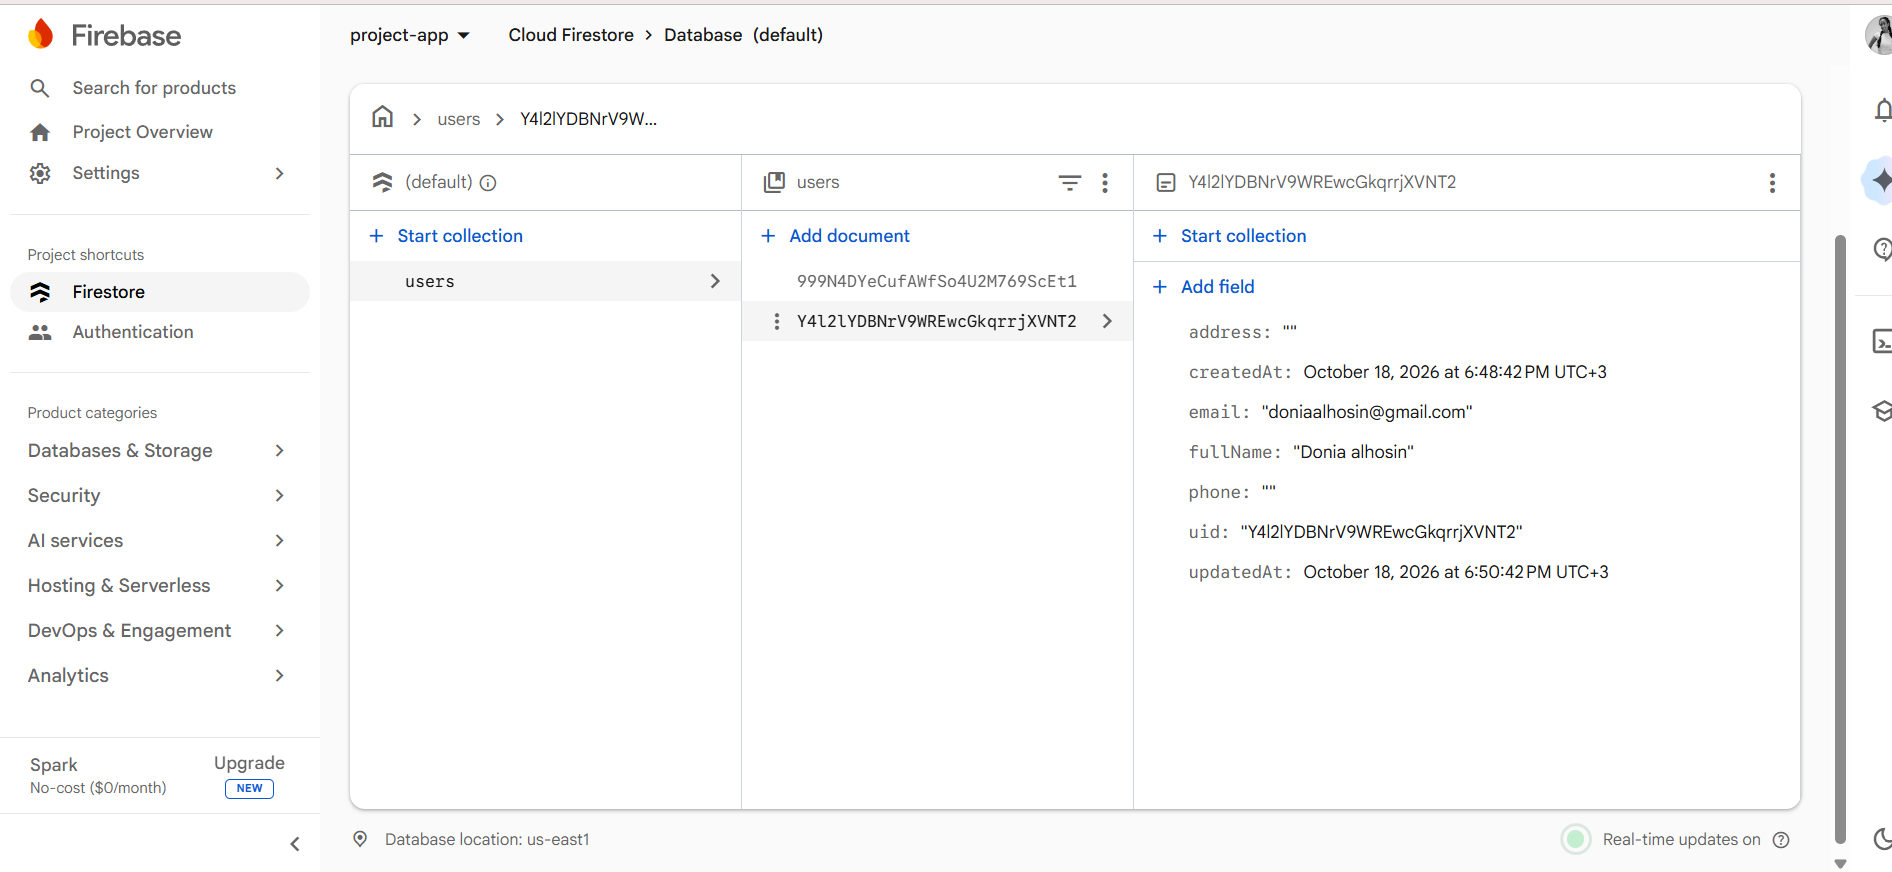
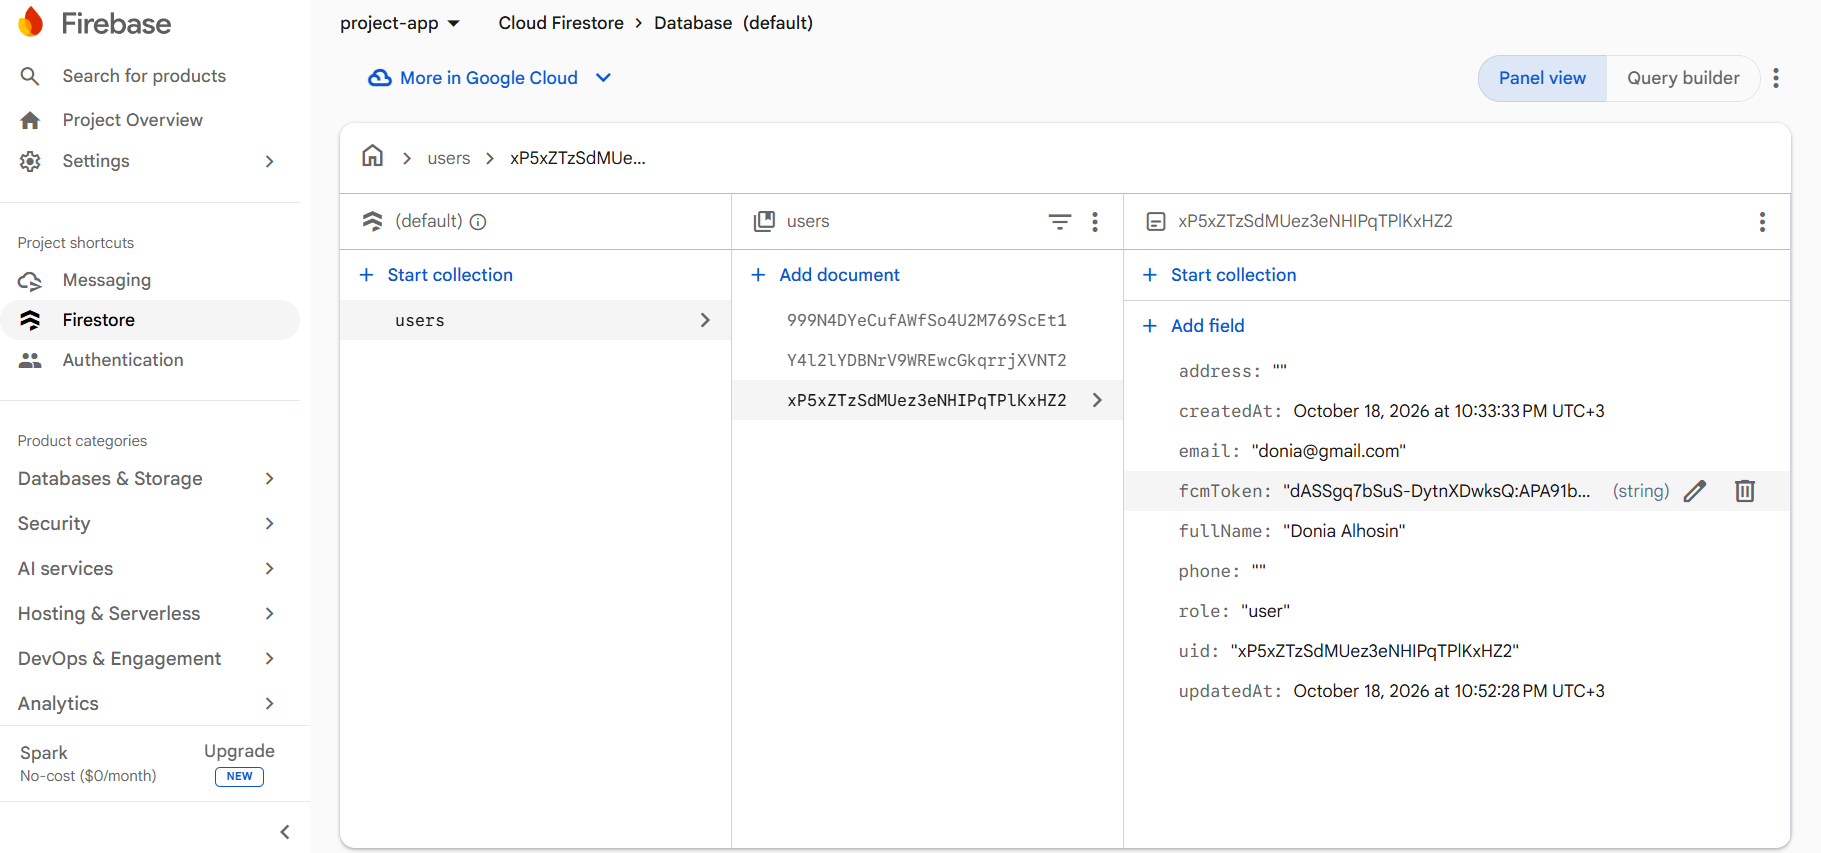
Add bottom tab navigation and Session 24 FCM screenshots.
Menu, Cart, and Profile use a Material bottom bar; README includes fcmToken and order-placed notification shots.

diff --git a/lib/View/food_menu_screen.dart b/lib/View/food_menu_screen.dart
@@ -16,7 +16,17 @@ import 'widgets/food_card.dart';
 
 /// Food catalog screen (MVC View).
 class FoodMenuScreen extends StatefulWidget {
-  const FoodMenuScreen({super.key});
+  const FoodMenuScreen({
+    super.key,
+    this.onOpenCart,
+    this.onOpenProfile,
+  });
+
+  /// When set (e.g. from [MainShell]), opens the Cart tab instead of pushing.
+  final VoidCallback? onOpenCart;
+
+  /// When set (e.g. from [MainShell]), opens the Profile tab instead of pushing.
+  final VoidCallback? onOpenProfile;
 
   @override
   State<FoodMenuScreen> createState() => _FoodMenuScreenState();
@@ -125,10 +135,13 @@ class _FoodMenuScreenState extends State<FoodMenuScreen> {
           if (value == 'logout') {
             await auth.logout();
           } else if (value == 'profile') {
-            if (!context.mounted) return;
-            Navigator.of(context).push(
-              MaterialPageRoute<void>(builder: (_) => const ProfileScreen()),
-            );
+            if (widget.onOpenProfile != null) {
+              widget.onOpenProfile!();
+            } else if (context.mounted) {
+              Navigator.of(context).push(
+                MaterialPageRoute<void>(builder: (_) => const ProfileScreen()),
+              );
+            }
           } else if (value == 'users' && isAdmin) {
             if (!context.mounted) return;
             Navigator.of(context).push(
@@ -234,7 +247,13 @@ class _FoodMenuScreenState extends State<FoodMenuScreen> {
         ScaffoldMessenger.of(context).showSnackBar(
           SnackBar(
             content: Text('${food.name} added to cart'),
-            duration: const Duration(seconds: 1),
+            duration: const Duration(seconds: 2),
+            action: widget.onOpenCart == null
+                ? null
+                : SnackBarAction(
+                    label: 'View cart',
+                    onPressed: widget.onOpenCart!,
+                  ),
           ),
         );
       }
@@ -282,6 +301,10 @@ class _FoodMenuScreenState extends State<FoodMenuScreen> {
                 ),
                 icon: const Icon(Icons.shopping_cart_outlined),
                 onPressed: () {
+                  if (widget.onOpenCart != null) {
+                    widget.onOpenCart!();
+                    return;
+                  }
                   Navigator.of(context).push(
                     MaterialPageRoute<void>(
                       builder: (_) => const CartScreen(),

diff --git a/lib/View/main_shell.dart b/lib/View/main_shell.dart
@@ -1,0 +1,80 @@
+import 'package:flutter/material.dart';
+import 'package:provider/provider.dart';
+
+import '../Provider/order_provider.dart';
+import '../theme/app_theme.dart';
+import 'cart_screen.dart';
+import 'food_menu_screen.dart';
+import 'profile_screen.dart';
+
+/// Root shell with Material 3 bottom navigation for mobile.
+class MainShell extends StatefulWidget {
+  const MainShell({super.key});
+
+  @override
+  State<MainShell> createState() => _MainShellState();
+}
+
+class _MainShellState extends State<MainShell> {
+  int _index = 0;
+
+  void _goTo(int index) {
+    if (_index == index) return;
+    setState(() => _index = index);
+  }
+
+  @override
+  Widget build(BuildContext context) {
+    final cartCount = context.watch<OrderProvider>().totalQuantity;
+    final theme = Theme.of(context);
+
+    return Scaffold(
+      body: IndexedStack(
+        index: _index,
+        children: [
+          FoodMenuScreen(
+            onOpenCart: () => _goTo(1),
+            onOpenProfile: () => _goTo(2),
+          ),
+          const CartScreen(),
+          const ProfileScreen(),
+        ],
+      ),
+      bottomNavigationBar: NavigationBar(
+        selectedIndex: _index,
+        onDestinationSelected: _goTo,
+        backgroundColor: Colors.white,
+        indicatorColor: AppTheme.peach,
+        labelBehavior: NavigationDestinationLabelBehavior.alwaysShow,
+        destinations: [
+          const NavigationDestination(
+            icon: Icon(Icons.restaurant_menu_outlined),
+            selectedIcon: Icon(Icons.restaurant_menu),
+            label: 'Menu',
+          ),
+          NavigationDestination(
+            icon: Badge(
+              isLabelVisible: cartCount > 0,
+              label: Text('$cartCount'),
+              child: const Icon(Icons.shopping_cart_outlined),
+            ),
+            selectedIcon: Badge(
+              isLabelVisible: cartCount > 0,
+              label: Text('$cartCount'),
+              child: Icon(
+                Icons.shopping_cart,
+                color: theme.colorScheme.primary,
+              ),
+            ),
+            label: 'Cart',
+          ),
+          const NavigationDestination(
+            icon: Icon(Icons.person_outline),
+            selectedIcon: Icon(Icons.person),
+            label: 'Profile',
+          ),
+        ],
+      ),
+    );
+  }
+}

diff --git a/lib/View/profile_screen.dart b/lib/View/profile_screen.dart
@@ -1,10 +1,12 @@
 import 'package:flutter/material.dart';
 import 'package:provider/provider.dart';
 
+import '../Provider/auth_provider.dart';
 import '../Provider/user_provider.dart';
 import '../extensions/string_validators.dart';
 import '../extensions/text_form_field_extensions.dart';
 import '../theme/app_theme.dart';
+import 'users_list_screen.dart';
 
 /// View / edit the logged-in user's Firestore profile.
 class ProfileScreen extends StatefulWidget {
@@ -408,6 +410,30 @@ class _ProfileScreenState extends State<ProfileScreen> {
                               ),
                             ],
                           ),
+                        ),
+                        const SizedBox(height: 16),
+                        if (users.isAdmin) ...[
+                          OutlinedButton.icon(
+                            onPressed: () {
+                              Navigator.of(context).push(
+                                MaterialPageRoute<void>(
+                                  builder: (_) => const UsersListScreen(),
+                                ),
+                              );
+                            },
+                            icon: const Icon(
+                              Icons.admin_panel_settings_outlined,
+                            ),
+                            label: const Text('Manage users'),
+                          ),
+                          const SizedBox(height: 10),
+                        ],
+                        OutlinedButton.icon(
+                          onPressed: () async {
+                            await context.read<AppAuthProvider>().logout();
+                          },
+                          icon: const Icon(Icons.logout),
+                          label: const Text('Sign out'),
                         ),
                       ],
                     ),

diff --git a/lib/theme/app_theme.dart b/lib/theme/app_theme.dart
@@ -91,6 +91,27 @@ class AppTheme {
           borderSide: const BorderSide(color: seed, width: 2),
         ),
       ),
+      navigationBarTheme: NavigationBarThemeData(
+        backgroundColor: Colors.white,
+        indicatorColor: peach,
+        elevation: 3,
+        height: 68,
+        labelTextStyle: WidgetStateProperty.resolveWith((states) {
+          final selected = states.contains(WidgetState.selected);
+          return TextStyle(
+            fontSize: 12,
+            fontWeight: selected ? FontWeight.w700 : FontWeight.w500,
+            color: selected ? seed : ink.withValues(alpha: 0.7),
+          );
+        }),
+        iconTheme: WidgetStateProperty.resolveWith((states) {
+          final selected = states.contains(WidgetState.selected);
+          return IconThemeData(
+            color: selected ? seed : ink.withValues(alpha: 0.65),
+            size: 24,
+          );
+        }),
+      ),
       snackBarTheme: SnackBarThemeData(
         behavior: SnackBarBehavior.floating,
         shape: RoundedRectangleBorder(borderRadius: BorderRadius.circular(12)),

diff --git a/lib/View/auth_gate.dart b/lib/View/auth_gate.dart
@@ -4,7 +4,7 @@ import 'package:provider/provider.dart';
 import '../Provider/auth_provider.dart';
 import '../Provider/user_provider.dart';
 import 'auth/login_screen.dart';
-import 'food_menu_screen.dart';
+import 'main_shell.dart';
 
 /// Shows [LoginScreen] until Firebase Auth reports a signed-in user.
 /// Also syncs the Firestore profile when auth state changes.
@@ -45,7 +45,7 @@ class _AuthGateState extends State<AuthGate> {
     final auth = context.watch<AppAuthProvider>();
 
     if (auth.isLoggedIn) {
-      return const FoodMenuScreen();
+      return const MainShell();
     }
     return const LoginScreen();
   }

diff --git a/README.md b/README.md
@@ -69,6 +69,7 @@ Browse a sample food menu, search items, add them to a cart (with editions and s
 - Firestore user profile (self-service edit + delete account)
 - Admin role with full users management
 - Cloud push notifications (FCM) with foreground display
+- Mobile bottom tabs: Menu · Cart · Profile
 - Hive cart persistence
 - Dart extension methods for form fields
 
@@ -117,6 +118,7 @@ lib/
     ├── food_menu_screen.dart
     ├── cart_screen.dart
     ├── checkout_screen.dart
+    ├── main_shell.dart
     ├── profile_screen.dart
     ├── users_list_screen.dart
     └── widgets/food_card.dart
@@ -225,15 +227,24 @@ Layout: **wide console shots = 2 columns**, **phone shots = 1 column** (3-column
 
 ### Session 24 — Cloud notifications
 
-Received on a real Android device after FCM / Messaging test (and after placing an order).
+Device token saved on Firestore as **`fcmToken`**. Test push from Messaging + local notice after COD checkout.
 
 <table width="100%">
   <tr>
-    <td align="center" width="50%">
-      <img src="screenshots/messaging.jpg" alt="Food Cart notification" width="100%" /><br/>
-      <sub>Device notification · Food Cart · “Your order is being prepared”</sub>
+    <td align="center" width="100%" colspan="2">
+      <img src="screenshots/firestore_fcm_token.png" alt="Firestore user with fcmToken" width="100%" /><br/>
+      <sub>Firestore <code>users/{uid}</code> with <code>fcmToken</code> (wide)</sub>
     </td>
-    <td align="center" width="50%"></td>
+  </tr>
+  <tr>
+    <td align="center" width="50%">
+      <img src="screenshots/messaging.jpg" alt="FCM test notification" width="100%" /><br/>
+      <sub>FCM test · “Your order is being prepared”</sub>
+    </td>
+    <td align="center" width="50%">
+      <img src="screenshots/ordered-placed.jpg" alt="Order placed notification" width="100%" /><br/>
+      <sub>Order placed · local notification after checkout</sub>
+    </td>
   </tr>
 </table>
 
